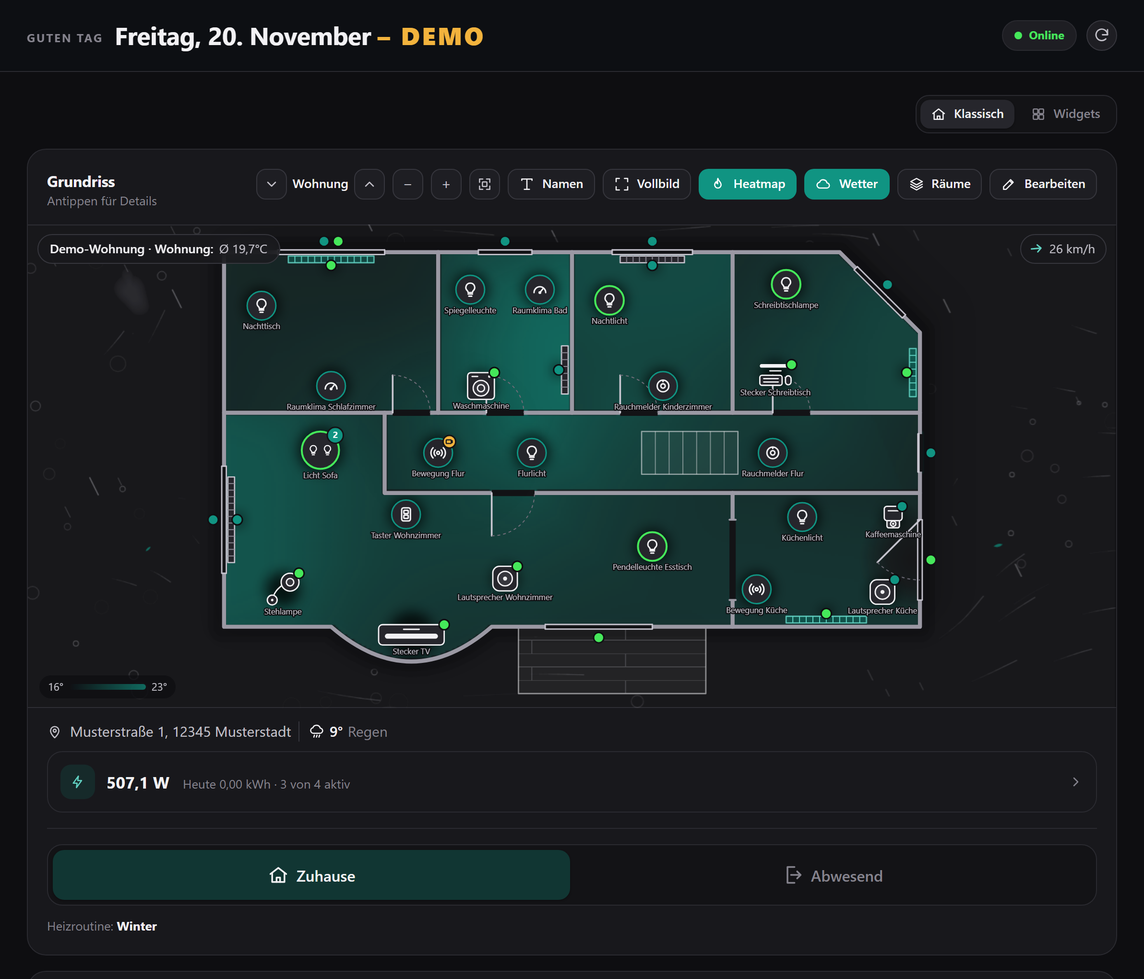
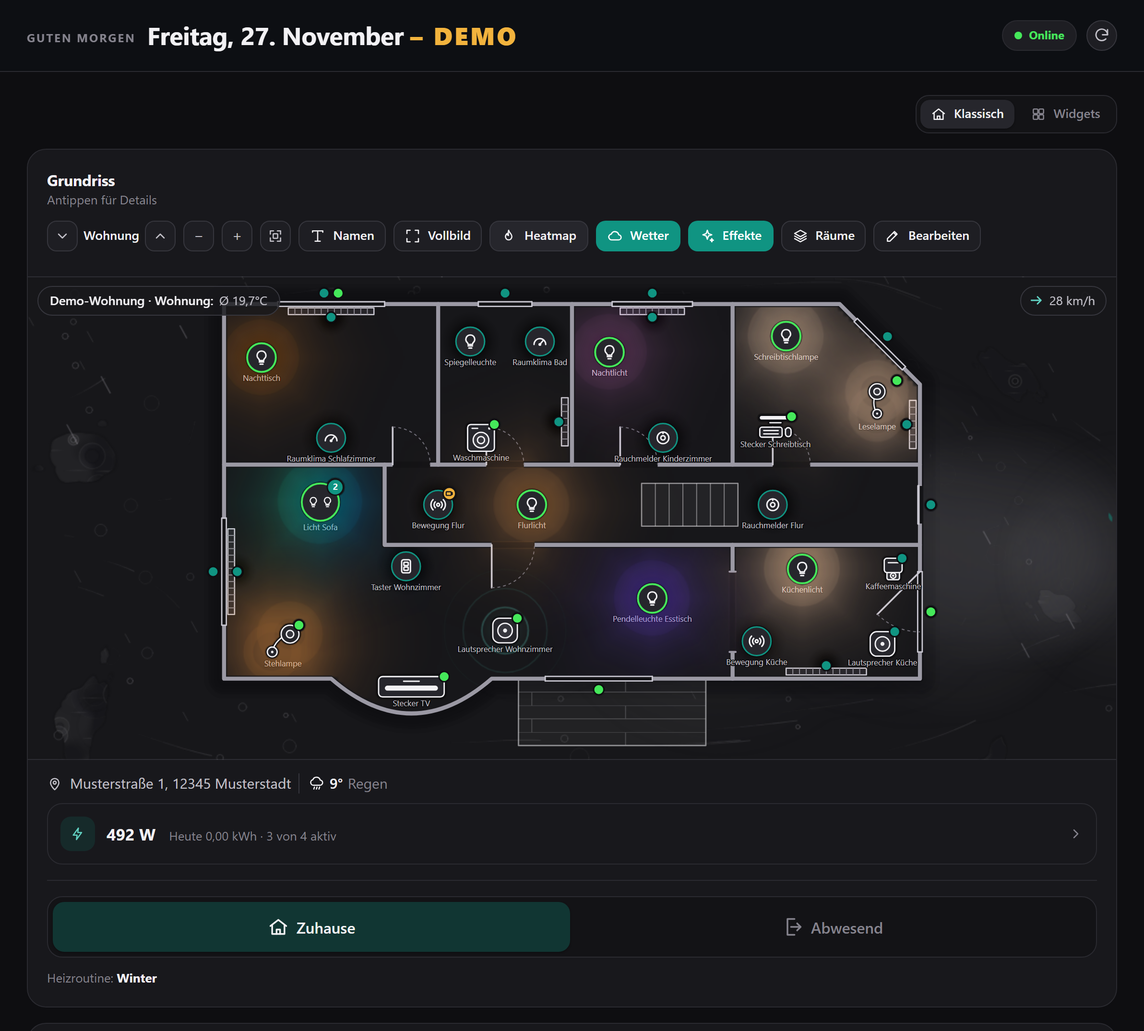
ComfyOS 0.30.1: Lampenschein abgestimmt, Lichteffekte im Hauptbild, Heatmap-Bild im Wiki, Fix test_style, Fix 403 beim Demo-Wechsel, Fix ui_home Fenster, Fix ui_system Demo-Wechsel

diff --git a/backend/app/static/js/weather_fx.js b/backend/app/static/js/weather_fx.js
@@ -165,8 +165,9 @@
   const SOUND_FPS = 20            // frames per second while only sound waves move (since 0.28; before the fast pace)
   // light of the lamps (since 0.28): opacity of the light where it leaves a lamp at full brightness, of the halo right
   // at its bubble or symbol and its width in grid cells, seconds a change of colour or brightness takes, how much the
-  // daylight takes away from it
-  const LAMP_LIGHT = 0.34, LAMP_HALO = 0.42, LAMP_HALO_W = 0.9, LAMP_EASE = 0.45, LAMP_DAY = 0.35
+  // daylight takes away from it. Since 0.30.1 the halo is faint and the light itself stronger (wish of the operator:
+  // the bright rim read as a second lamp, the glow in the room was hardly there)
+  const LAMP_LIGHT = 0.52, LAMP_HALO = 0.16, LAMP_HALO_W = 0.9, LAMP_EASE = 0.45, LAMP_DAY = 0.35
   const EDDY_MIN = 0.15           // Wirbel im Windschatten ab ~12 km/h, voll ab ~50 km/h
   const FLOW_CELLS = OLD ? 1400 : 2800   // flow grid: at most this many cells
   const TRAIL = OLD ? 8 : 12      // points in the tail of a wind line
@@ -1955,7 +1956,7 @@
         for (const m of shining) {
           const f = m.lamp.glow
           if (!f || !f.img || m.now < 0.004) continue
-          c.globalAlpha = clamp(LAMP_LIGHT * m.now, 0, 0.5)
+          c.globalAlpha = clamp(LAMP_LIGHT * m.now, 0, 0.7)
           c.drawImage(tintedLamp(m), v.x + f.x * v.s, v.y + f.y * v.s, f.w * v.s, f.h * v.s)
         }
         c.globalAlpha = 1
@@ -2209,10 +2210,10 @@
     const ro = window.ResizeObserver ? new ResizeObserver(() => { if (resize() && !raf) draw(0, 0) }) : null
     if (ro) ro.observe(canvas)
 
+    let calmSig = ''
     // What the calm single image depends on (since 0.30): the seeded weather, size, colours, the position of sun
     // and moon (rounded – it creeps) and the state of the inside layer. If none of it changed, a live message
     // repaints nothing – before, every message redrew the whole canvas every few seconds.
-    let calmSig = ''
     function sigOf() {
       const indoor = opts.getIndoor ? opts.getIndoor() : null, sun = sunNow(), m = opts.getMask ? opts.getMask() : null
       const parts = [seedKey, level, W, H, tokensOf || '', m ? m.shape || '' : '',

diff --git a/backend/app/static/js/app.js b/backend/app/static/js/app.js
@@ -90,9 +90,13 @@
   // Suffix of the page title in the demo (markup for the top bar, or plain text for the browser tab).
   HO.demoTitle = plain => !HO.demo.active ? '' : plain ? ' – DEMO' : ' <span class="pt-demo">– DEMO</span>'
   // Buttons of the demo (System page): end it (back to the own home page) or set up the sample home anew.
+  // Both ways out of and into the demo reload the page on the home page. The address is changed without a hashchange
+  // (replaceState): assigning location.hash first let the old page render the home page against a server that had
+  // already switched sides – its heating sync request got a 403 (fixed in 0.30.1).
+  const reloadHome = () => { history.replaceState(null, '', location.pathname + location.search + '#home'); location.reload() }
   HO.demoAction = async function (act) {
     try {
-      if (act === 'demoStop') { await HO.api('demo/stop', { method: 'POST' }); location.hash = 'home'; location.reload() }
+      if (act === 'demoStop') { await HO.api('demo/stop', { method: 'POST' }); reloadHome() }
       if (act === 'demoReset' && await HO.confirm('Alles, was du in der Demo geändert hast, geht verloren.', { title: 'Demo zurücksetzen?', ok: 'Zurücksetzen' })) {
         await HO.api('demo/reset', { method: 'POST' })
         HO.toast('Demo-Wohnung neu eingerichtet', 'ok')
@@ -104,8 +108,7 @@
   HO.startDemo = async function () {
     try {
       await HO.api('demo/start', { method: 'POST' })
-      location.hash = 'home'
-      location.reload()
+      reloadHome()
     } catch (err) { HO.toast(err.message, 'bad', 5000) }
   }
 

diff --git a/backend/app/static/js/overview.js b/backend/app/static/js/overview.js
@@ -1314,6 +1314,7 @@
     const ov = () => HO.state.overview
     const key = r.key || r.room_id
     const name = (info && info.name) || r.name || 'Raum'
+    // Content of the sheet from the current overview: temperatures, room light switch, brightness, scenes, lamps, other devices.
     const body = () => {
       const devs = ov().devices.filter(d => key && d.room_id === key)
       const lamps = devs.filter(d => d.kind === 'light').sort((a, b) => HO.byName(a.name, b.name))

diff --git a/backend/app/static/js/core.js b/backend/app/static/js/core.js
@@ -752,6 +752,7 @@ window.HO = window.HO || {};
      other side would keep one more connection busy with every page change. */
   let syncKick = null
   HO.kickSync = () => {
+    if (HO.demo && HO.demo.active) return Promise.resolve({})   // the demo has no heating sync – the server refuses the request (403)
     if (!syncKick) {
       syncKick = HO.api('sync', { method: 'POST' })
       const done = () => { syncKick = null }

diff --git a/tools/readme_screenshot.py b/tools/readme_screenshot.py
@@ -7,15 +7,22 @@ the path of the test environment is in CLAUDE.md and dev/README.md, section Test
 The app runs in its own temp directories (test world tests/support/world_demo.py). Two sessions look at it:
 
   * a session in the demo home (demo.py, demo_world.py – the same sample flat a user sees under System → Demo-Wohnung
-    ansehen; its weather is a fixed sample with rain in a fresh wind). The position of the sun is set to "day"
-    (HO.state.fxTime), so that shadows and effects look the same at every time of day.
-      screenshot.png – home page, classic view: the main tile with floor plan, heat map and weather effects
+    ansehen). The home is set to an evening (`cosy`): the scene "Polarlicht" in the living room (blue, violet and a warm
+    floor lamp next to the pink night light, the warm bedside lamp and the cool kitchen light), kitchen, bedside and
+    hallway lamps on, the speaker in the living room playing – so the floor plan shows the light of the lamps in their
+    colours and the sound waves (button "Effekte"). Weather and time of day are previews of the effects (HO.state.fxPreview,
+    HO.state.fxTime – the same switches as `#home?fx=rain&time=night`), so every picture looks the same at every time
+    of day: HERO_FX/HERO_TIME (rain at night – the lamps stand out most against the dark surroundings) for the pictures
+    with the lamps, "day" with the demo's own weather for the heat map.
+      screenshot.png – home page, classic view: the floor plan with lamp light, sound waves and the weather around the
+                       house (the heat map is off here – it has its own picture)
+      heatmap.png    – the floor plan tile with the heat map (lamp light and sound off, so the warmth stands alone)
       widgets.png    – widget view of the home page
       editor.png     – floor plan editor
       light.png      – light setting of the living room (lamps, scenes, effects)
       scenes.png     – page "Szenen" (scene library)
       heating.png    – heating plan
-      mobile.png     – home page on a phone
+      mobile.png     – home page on a phone (like screenshot.png, device names off)
   * a session of the test world itself (Home Base and Hue Bridge as mocks), because the demo refuses flow test runs and
     shows no real plugins:
       flow.png       – flow editor with a flow of eleven nodes in the middle of a test run: the path glows, the
@@ -42,7 +49,10 @@ from playwright.sync_api import sync_playwright  # noqa: E402
 PORT = 8771
 WIDE = {"width": 1440, "height": 900}
 PHONE = {"width": 390, "height": 844}
+HERO_FX, HERO_TIME = "rain", "night"            # weather preview and time of day of the pictures with the lamps
 SIDEBAR_JS = "() => { const s = document.querySelector('.sidebar'); return s ? Math.ceil(s.getBoundingClientRect().right) : 0 }"
+HOME_CARD_BOTTOM_JS = """() => { const c = document.querySelector('.home-card')
+  return c ? c.getBoundingClientRect().bottom + scrollY + 24 : 1300 }"""
 
 
 def shot(name: str) -> str:
@@ -50,16 +60,35 @@ def shot(name: str) -> str:
     return str(OUT.with_name(name))
 
 
-def classic_home(page) -> None:
-    """Open the classic home page and wait until floor plan, heat map, daylight shadow and weather effects are drawn."""
+def cosy(api) -> None:
+    """Set the demo home to an evening: the scene "Polarlicht" in the living room, three more lamps on in their white
+    tones, the speaker in the living room a little louder (sound waves). `api` is a signed-in client in the demo."""
+    applied = api.post("/api/scenes/polarlicht/apply", json={"room_ids": ["wohnen"]})
+    assert applied.status_code == 200, applied.text
+    for dev, state in (("kueche", {"on": True}), ("nachttisch", {"on": True}), ("flurlicht", {"on": True}),
+                       ("lautsprecher", {"volume": 32})):
+        r = api.post(f"/api/devices/demo:{dev}/command", json={"state": state})
+        assert r.status_code == 200, (dev, r.text)
+
+
+def classic_home(page, fx=HERO_FX, tm=HERO_TIME, effects=True, heat=False) -> None:
+    """Open the classic home page with a weather preview (`fx`, None = the demo's own weather) at the time of day `tm`,
+    switch the heat map with its button (the plan of the demo lies in data/demo/ – the real one stays untouched) and
+    wait until floor plan, shadow and weather effects are drawn – with `effects` also until a lamp shines."""
     page.goto(BASE + "/#home")
     page.wait_for_selector(".room-card .rc-head", timeout=20000)
-    page.evaluate("() => { HO.state.fxTime = 'day'; HO.go('home', true) }")   # shadows as by day, whenever the picture is taken
-    page.wait_for_selector("#fpHost .fp-heat", timeout=15000)
-    page.wait_for_selector("#fpHost .fp-shadow:not(.night)", timeout=15000)
+    page.evaluate("([fx, tm, on]) => { localStorage.setItem('ho.fpEffects', on ? '1' : '0'); HO.state.fxPreview = fx; HO.state.fxTime = tm; HO.go('home', true) }",
+                  [fx, tm, effects])
+    page.wait_for_selector("#fpHost .fp-shadow", timeout=15000)
+    button = page.locator('[data-act="fpHeat"]')
+    if (button.get_attribute("aria-pressed") == "true") != heat:
+        button.click()
+    page.wait_for_selector("#fpHost .fp-heat", timeout=15000, state="visible" if heat else "detached")
     page.wait_for_function("() => !!(HO.state.weather && HO.state.weather.data && HO.state.weather.data.fx)")   # as a function: the CSP allows no eval
     page.wait_for_selector("#fpHost canvas.fp-fx", timeout=15000)
-    page.wait_for_timeout(4500)   # rain, ripples and wind lines are under way
+    if effects:
+        page.wait_for_function("() => HO.weatherFx.stats.lamps >= 1", timeout=10000)   # the lamps shine
+    page.wait_for_timeout(5000)   # rain, ripples, wind lines and sound waves are under way, the lamp light has eased in
 
 
 server = uvicorn.Server(uvicorn.Config(main.app, host="127.0.0.1", port=PORT, log_level="warning"))
@@ -75,12 +104,11 @@ assert api.post("/api/plugins/hue/pair", json={"host": "192.0.2.10"}).json().get
 api.post("/api/scenes/abendrot/apply", json={"room_ids": ["wohnen"]})
 api.post(f"/api/devices/{WEISS}/command", json={"state": {"on": False}})   # all states visible: one lamp off
 
-# the demo home for the second session: sample flat, a scene in the living room
+# the demo home for the second session: sample flat on an evening
 demo_api = httpx.Client(base_url=BASE, cookies={auth.COOKIE: demo_token}, timeout=15)
 started = demo_api.post("/api/demo/start")
 assert started.status_code == 200 and started.json().get("active"), started.text
-applied = demo_api.post("/api/scenes/abendrot/apply", json={"room_ids": ["wohnen"]})
-assert applied.status_code == 200, applied.text
+cosy(demo_api)
 
 with sync_playwright() as p:
     b = p.chromium.launch()
@@ -91,9 +119,8 @@ with sync_playwright() as p:
     page = ctx.new_page()
     classic_home(page)
     left = page.evaluate(SIDEBAR_JS)
-    # down to the end of the main tile: floor plan with heat map and weather, address, consumption, home/away
-    bottom = page.evaluate("""() => { const c = document.querySelector('.home-card')
-      return c ? c.getBoundingClientRect().bottom + scrollY + 24 : 1300 }""")
+    # down to the end of the main tile: floor plan with lamp light and weather, address, consumption, home/away
+    bottom = page.evaluate(HOME_CARD_BOTTOM_JS)
     page.screenshot(path=shot("screenshot.png"), full_page=True, clip={"x": left, "y": 0, "width": WIDE["width"] - left, "height": bottom})
     print("home ok", left, bottom)
 
@@ -126,6 +153,17 @@ with sync_playwright() as p:
     page.click('#viewBar [data-homeview="classic"]')
     page.wait_for_timeout(800)
     print("widgets ok")
+
+    # the heat map by day in the demo's own weather, without lamp light and sound: the floor plan tile from its head
+    # (button "Heatmap" active) to the end of the plan; afterwards the heat map is off again for the phone
+    classic_home(page, fx=None, tm="day", effects=False, heat=True)
+    card = page.evaluate("""() => { const c = document.querySelector('.home-card').getBoundingClientRect(), f = document.querySelector('#fpHost').getBoundingClientRect()
+      return {x: c.left, y: c.top + scrollY, w: c.width, h: f.bottom - c.top} }""")
+    page.screenshot(path=shot("heatmap.png"), full_page=True,
+                    clip={"x": card["x"] - 16, "y": max(0, card["y"] - 16), "width": card["w"] + 32, "height": card["h"] + 32})
+    page.click('[data-act="fpHeat"]')
+    page.wait_for_selector("#fpHost .fp-heat", timeout=15000, state="detached")
+    print("heatmap ok", card)
 
     # scenes and the weekly plan of the heating (the history above it is empty in the demo: it records nothing)
     page.evaluate("HO.go('light')")

diff --git a/tests/ui/ui_home.py b/tests/ui/ui_home.py
@@ -63,13 +63,17 @@ def warn_handler(req):
 
 weather._client = lambda timeout=6.0: httpx.AsyncClient(transport=httpx.MockTransport(wx_handler))
 weather._warn_client = lambda timeout=6.0: httpx.AsyncClient(transport=httpx.MockTransport(warn_handler))
-# small house in the middle of a large area: there is room for effects outside
+# small house in the middle of a large area: there is room for effects outside. Two windows without contacts (since
+# 0.30.1 – the checks of the window light need a window): one to the north, one to the south – the sun of the preview
+# "day" (south-west) and the moon of the preview "night" (south-south-east) lay their patch behind the southern one.
 floorplan_store.save({"width": 24, "height": 14, "address": "Musterstraße 1, 10115 Berlin",
                       "walls": [{"id": "w1", "pts": [[7, 3], [17, 3], [17, 11], [7, 11], [7, 3]]},
                                 {"id": "w2", "pts": [[12, 3], [12, 11]]}],
                       "rooms": [{"id": "r1", "name": "Küche", "room_id": "kueche", "x": 9.5, "y": 7},
                                 {"id": "r2", "name": "Wohnzimmer", "room_id": "wohnen", "x": 14.5, "y": 7}],
-                      "openings": [], "devices": {}})
+                      "openings": [{"id": "ow1", "type": "window", "a": [8, 3], "b": [11, 3], "side": 1, "device_id": None},
+                                   {"id": "ow2", "type": "window", "a": [13, 11], "b": [16, 11], "side": -1, "device_id": None}],
+                      "devices": {}})
 
 from playwright.sync_api import sync_playwright  # noqa: E402
 

diff --git a/tests/ui/ui_system.py b/tests/ui/ui_system.py
@@ -478,11 +478,13 @@ def run(p, engine, name, **ctx_args):
     # demo home: open it from the tab "Einstellungen" and leave it with "Demo beenden" (since 0.29.2 – before, the click
     # handler of the page replaced the one of the demo tile and the button did nothing)
     def demo_is(active):
-        """Wait until the server says this session is (not) in the demo – across the reload the buttons start."""
+        """Wait until the page itself knows that this session is (not) in the demo. The buttons reload the page, and only
+        the freshly booted page reads the state (HO.refreshDemo) – asking the server would answer before the reload and
+        the next navigation of the test would race with it."""
         deadline = time.time() + 10
         while time.time() < deadline:
             try:
-                if page.evaluate("async () => (await HO.api('demo')).active") is active:
+                if page.evaluate("() => !!(HO.demo && HO.demo.active)") is active:
                     return True
             except Exception:
                 pass                     # the page is just reloading: ask again

diff --git a/dev/README.md b/dev/README.md
@@ -650,11 +650,11 @@ browser. Screenshots land in `tests/shots/`. The tests are in `tests/ui/`, one p
 
 | Test | What is checked |
 |---|---|
-| `ui_home` | Frame of the floor plan from tile edge to tile edge, plan centred (since 0.19.1). Weather warning (DWD mock): note above the main tile, details, hiding with the warning sign; layout of the home page (since 0.19.2: header line without a tile, main tile with the floor plan and below it home/away, "Licht & Szenen" and key figures separate, overall state in "Geräte online", below the floor plan only the weather warning – in one line with the weather –, connection bubble at the top, title "ComfyOS", on the phone floor plan tools only as symbols); "Wetter heute" with wind report and hourly forecast; full screen with bubbles of equal height. Weather effects on the floor plan: all 14 previews by day and night without errors, no weather inside the rooms (since 0.27 light and sound are inside: by day every weather lets sky light in at the windows, a patch of sunlight on a sunny day and of moonlight in a clear preview night, moonlight exactly in the previews with an open sky – since 0.27.5 also through the gaps in `drizzle` and `storm`; the rooms stay untouched when neither light nor a playing speaker is there), always something drawn outside, wind lines exactly from 10 km/h and a small flow grid with the building as an obstacle (since 0.19.1), since 0.20.1 wind arrow on the floor plan, leaves exactly from 15 km/h, puddles and drop rings exactly in rain (no ring without a drop), since 0.26.1 hoarfrost patches exactly with frost, sun rays with the shadow shaft of the house on a clear day and none at night and the scroll position stays when a live message rewrites the room tiles (WebKit otherwise jumped up), at night a soft halo instead of the cast shadow, `prefers-reduced-motion` without animation frames, switching off removes the canvas, the button "Wetter" switches and saves; desktop + iPhone/WebKit. Screenshots per preview as a section of the floor plan (`weather-desktop-<kind>-<day|night>.png`) Since 0.27.1: heat haze (`stats.haze`) exactly in the preview `heat` by day, not with reduced motion. Since 0.28: the light of a lamp that is on counts as light inside (`stats.lamps`); the button "Effekte" switches lamp light and sound waves and remembers it per browser (`ho.fpEffects`), without weather the canvas runs only for them. Since 0.29: a load ("Verbraucher") on a device that is on is drawn as on and shines with "Effekte". |
+| `ui_home` | Frame of the floor plan from tile edge to tile edge, plan centred (since 0.19.1). Weather warning (DWD mock): note above the main tile, details, hiding with the warning sign; layout of the home page (since 0.19.2: header line without a tile, main tile with the floor plan and below it home/away, "Licht & Szenen" and key figures separate, overall state in "Geräte online", below the floor plan only the weather warning – in one line with the weather –, connection bubble at the top, title "ComfyOS", on the phone floor plan tools only as symbols); "Wetter heute" with wind report and hourly forecast; full screen with bubbles of equal height. Weather effects on the floor plan: all 14 previews by day and night without errors, no weather inside the rooms (since 0.27 light and sound are inside: by day every weather lets sky light in at the windows, a patch of sunlight on a sunny day and of moonlight in a clear preview night, moonlight exactly in the previews with an open sky – since 0.27.5 also through the gaps in `drizzle` and `storm`; the rooms stay untouched when neither light nor a playing speaker is there), always something drawn outside, wind lines exactly from 10 km/h and a small flow grid with the building as an obstacle (since 0.19.1), since 0.20.1 wind arrow on the floor plan, leaves exactly from 15 km/h, puddles and drop rings exactly in rain (no ring without a drop), since 0.26.1 hoarfrost patches exactly with frost, sun rays with the shadow shaft of the house on a clear day and none at night and the scroll position stays when a live message rewrites the room tiles (WebKit otherwise jumped up), at night a soft halo instead of the cast shadow, `prefers-reduced-motion` without animation frames, switching off removes the canvas, the button "Wetter" switches and saves; desktop + iPhone/WebKit. Screenshots per preview as a section of the floor plan (`weather-desktop-<kind>-<day|night>.png`) Since 0.27.1: heat haze (`stats.haze`) exactly in the preview `heat` by day, not with reduced motion. Since 0.28: the light of a lamp that is on counts as light inside (`stats.lamps`); the button "Effekte" switches lamp light and sound waves and remembers it per browser (`ho.fpEffects`), without weather the canvas runs only for them. Since 0.29: a load ("Verbraucher") on a device that is on is drawn as on and shines with "Effekte". Since 0.30.1 the test plan has two windows (north and south, no contacts): the checks of the window light need them – written in 0.27 against a plan without windows, they could never pass before. |
 | `ui_widgets` | *(since 0.24)* Widget view of the home page against the test world `world_hue.py`: the page starts classic, the switch leads to the widget view and the device remembers it across a reload; "Mit Vorschlag starten" fills the grid without overlaps, nothing sticks out over the screen, the floor plan runs as a widget; the catalogue shows four groups and every widget type; a note is added, its settings (text, style, colour accent) apply at once and its text is not output as HTML; desktop: a widget is dragged three cells and widened with Shift+arrow, the sidebar hides and comes back (the grid takes the room, the device remembers it); phone: narrow grid, the phone arrangement is only written down for what was placed there, buttons of the editor without labels; everything is saved on the server; the widget "Licht" switches through the handlers of the home page; the effects switch in the frame of the floor plan widget switches `ho.fpEffects` in both directions (since 0.30); back to classic the floor plan is there again; desktop + iPhone/Chromium + iPhone/WebKit. Screenshots `widgets-*.png` |
 | `ui_scenes` | Room cards (headers of equal height, always open, no sort handle any more; since 0.19.3 arranging with the arrow, stored in `layout.home`), scene chips, lamp rows, scene manager (since 0.19.2: studio only after "Neu", closes after save/cancel, import through the menu in the header), page title "ComfyOS" on the home page, floor plan; desktop + iPhone |
 | `ui_flow` | Flow list, template, palette (nodes, Pro tag) drag/tap, roles on the cards, role change, n+1 ports, connecting (dragging and tapping), multi-selection with copy/paste/undo/redo, negative number with "±", node dialog (target selection, property, test buttons), the time display on the node does not change the card height, live display after ▶, lighting up in the list, on/off, play, delete; plus two older fixes (heating history average, docking dots) |
-| `ui_system` | Hue pairing in the plugin tile (state, switch, content from the plugin), lamp UI, scene chips, colour picker; tabs "Plugins" and "Einstellungen" (since 0.19.3: each only its tiles, none wider than the screen, the connection bubble leads into the tab Plugins; since 0.22.1: the refresh button keeps the tab Plugins and the tab buttons keep working afterwards); tab Einstellungen in columns (since 0.19.2: desktop two, phone one, flush at the top, about equally long, no tile with a distance to the top), arranging with the arrow and – on the desktop – with the mouse including scrolling along, saving per column count, column choice 1/2, "Automatisch" forgets the arrangement, column choice hidden on the phone; stored passwords as dots; desktop + iPhone Since 0.29.2: the demo home is opened from the tab "Einstellungen" and left again with "Demo beenden". |
+| `ui_system` | Hue pairing in the plugin tile (state, switch, content from the plugin), lamp UI, scene chips, colour picker; tabs "Plugins" and "Einstellungen" (since 0.19.3: each only its tiles, none wider than the screen, the connection bubble leads into the tab Plugins; since 0.22.1: the refresh button keeps the tab Plugins and the tab buttons keep working afterwards); tab Einstellungen in columns (since 0.19.2: desktop two, phone one, flush at the top, about equally long, no tile with a distance to the top), arranging with the arrow and – on the desktop – with the mouse including scrolling along, saving per column count, column choice 1/2, "Automatisch" forgets the arrangement, column choice hidden on the phone; stored passwords as dots; desktop + iPhone Since 0.29.2: the demo home is opened from the tab "Einstellungen" and left again with "Demo beenden" (since 0.30.1 the test waits for the reloaded page's own state `HO.demo` before it navigates on – asking the server answered before the reload, and the next navigation ran into it). |
 | `ui_plugins` | Tiles of the plugins MQTT and network (since 0.19): entering the broker → "Online" (up to 0.23 "Live"), found devices (room suggestion preselected), "Alle übernehmen" or one by one with a room, "Nicht unterstützt", creating an own device (the name is not output as HTML, a started input stays), adding a presence device (foreign address rejected), "Jetzt prüfen"; the connection bubble at the top shows "Online"/"Fehler" (or "Verbindet" while a plugin is still coming up, since 0.24) and names MQTT in the hint; home page: socket with power, sensor with temperature and humidity, presence, live change without reloading, switching arrives at the broker; desktop + iPhone/WebKit. Screenshots `plug-*.png` |
 | `ui_media` | *(since 0.22)* Sonos tile and block "Wiedergabe" against the test world `world_sonos.py`: without speakers the tile offers the search and names the speakers of the Home Base and "nur im Heimnetz, auch per UDP" (no search without pushing the button); after the search rooms of the household, adopting "Neu bei Sonos"; home page with one tile per speaker (name from the Home Base, track not as HTML, cover picture from the own server); playback, volume and favourite arrive at the right speaker; the device dialog shows the playback instead of on/off; on the phone nothing sticks out over the edge; desktop + iPhone/WebKit. Screenshots `media-*.png` |
 | `ui_matter` | *(since 0.21)* Tile of the plugin Matter, without Node (helper as `FakeHelper`, "Einrichten" loads a stand-in archive from the cut-off network): without Node the tile names helper, rights and the download (target, version, size); after "Einrichten" it becomes "Online"; share per device with the counter "x freigegeben", search, "Alle"/"Keine", overview at the top (since 0.21.1); "Kopplung öffnen" shows the numeric code and the QR code as SVG, then the paired controller; device of the controller under "Neu über Matter" (the name is not output as HTML); on the phone nothing sticks out over the edge; desktop + iPhone/WebKit. Screenshots `matter-*.png` |

diff --git a/README.md b/README.md
@@ -2,7 +2,7 @@
 
 **Die lokale Smart-Home-Zentrale mit Grundriss.** ComfyOS bringt Philips Hue, FRITZ!Box, die Magenta SmartHome Home Base, Zigbee2MQTT, Matter und Sonos in eine Oberfläche. Alles läuft im eigenen Heimnetz, ohne Cloud-Konto und ohne Konfigurationsdateien.
 
-![Startseite der Demo-Wohnung: Grundriss mit Heatmap, Regen und Wind rund ums Haus](docs/screenshot.png)
+![Startseite der Demo-Wohnung bei Nacht: Lampen leuchten im Grundriss in ihren Farben, der Lautsprecher sendet Schallwellen, draußen Regen und Wind](docs/screenshot.png)
 
 > Privates Community-Projekt, nicht mit der Deutschen Telekom verbunden. „Magenta“ und „QIVICON“ sind Marken ihrer jeweiligen Inhaber.
 
@@ -116,7 +116,7 @@ ComfyOS sendet keine Telemetrie, keine Statistik und keine Absturzberichte. Eine
 
 ## Projektstand
 
-Aktuell ist **Version 0.26**. ComfyOS läuft täglich in einem echten Zuhause mit Home Base, Hue, FRITZ!Box und Sonos. Was dort noch nicht nachgeprüft werden konnte, ist als offen vermerkt, zum Beispiel Zigbee2MQTT-Geräte und Matter am Echo.
+Aktuell ist **Version 0.30**. ComfyOS läuft täglich in einem echten Zuhause mit Home Base, Hue, FRITZ!Box und Sonos. Was dort noch nicht nachgeprüft werden konnte, ist als offen vermerkt, zum Beispiel Zigbee2MQTT-Geräte und Matter am Echo.
 
 Als Nächstes folgt ein Docker-Image mit Installation per Einzeiler. Bis Version 1.0 ist ComfyOS eine Vorabversion für erste Tester.
 

diff --git a/dev/docs/floorplan.md b/dev/docs/floorplan.md
@@ -4,6 +4,17 @@ Area documentation of ComfyOS – part of the guide `CLAUDE.md` (which says when
 This file says how the area is built and what to watch out for when changing it; version notes ("since 0.x") name
 when something was added.
 
+## Since 0.30.1 – fainter halo, stronger lamp light
+
+- **Light of the lamps retuned (wish of the operator: the bright rim at the bubble read as a second lamp while the glow
+  in the room was hardly there):** `weather_fx.LAMP_HALO` 0.42 → 0.16 (the ring along the outline, `haloOf`),
+  `LAMP_LIGHT` 0.34 → 0.52 (the spreading light, its cap 0.5 → 0.7). Width, easing and the daylight factor are unchanged;
+  `stats.lamps` still counts the lamps with a halo.
+- **Pictures for README and wiki** (`tools/readme_screenshot.py`): the home page shows the lamps (scene "Polarlicht" in the
+  living room, three more lamps on, the speaker playing) in a preview night with rain, the heat map off; the heat map has a
+  picture of its own (`docs/heatmap.png`, wiki "Grundriss") by day without lamp light. Previews set through
+  `HO.state.fxPreview`/`fxTime`, as the owner's `#home?fx=rain&time=night` does.
+
 ## Since 0.30 – stars only in reflections, finer frost with a sky mirror, multicolour lamps, calmer frames
 
 - **Stars only in reflections (wish of the operator):** the stars – and the rare shooting star – no longer stand in

diff --git a/dev/docs/interface.md b/dev/docs/interface.md
@@ -121,6 +121,15 @@ when something was added.
 - **Tile "Externe Verbindungen":** the dot is green for an active service and grey otherwise – "only on demand" is no longer
   yellow (`EGRESS_DOT` in `settings.js`).
 
+## Since 0.30.1
+
+- **Into and out of the demo without a stray request:** `HO.startDemo` and `HO.demoAction('demoStop')` reload on the home page
+  through `history.replaceState(…, '#home')` + `location.reload()` (`app.js` `reloadHome`). Up to 0.30.0 they assigned
+  `location.hash` first: the old page still rendered the home page and kicked the heating sync (`POST /api/sync`) against a
+  server that had already switched the session – a 403 in the console (`ui_system` counts console errors). `HO.kickSync()` is
+  a no-op in the demo (`HO.demo.active`, resolves `{}`): the demo has no heating sync, the server would refuse the request.
+  Rule: a page change that follows a server-side switch of the session reloads straight away, it does not route first.
+
 ## Since 0.23.1
 
 - **Demo in the page title instead of a bar:** in the demo every page title ends in "– DEMO" (`HO.demoTitle()` in `HO.go` and in

diff --git a/docs/wiki/05-grundriss.md b/docs/wiki/05-grundriss.md
@@ -56,6 +56,8 @@ Ein Gerät gehört zu dem Raum, in dem es steht. Mit Home Base schreibt ComfyOS 
 
 ## Was der Grundriss zeigt
 
+![Grundriss der Demo-Wohnung mit Heatmap: Heizkörper leuchten nach gemessener Temperatur, draußen Regen und Wind](../heatmap.png)
+
 - **Zustände:** an/aus, offen, kein Kontakt, Batterie schwach, Gerätefehler, Alarm, gesperrt.
 - **Temperaturen:** Name und Durchschnitt stehen in jedem Raum.
 - **Heatmap:** Heizkörper leuchten nach gemessener Temperatur. Die Skala reicht vom niedrigsten bis zum höchsten Wert deines Heizplans. Ein offenes Fenster drängt die Wärme mit pulsierender kalter Luft zurück.
